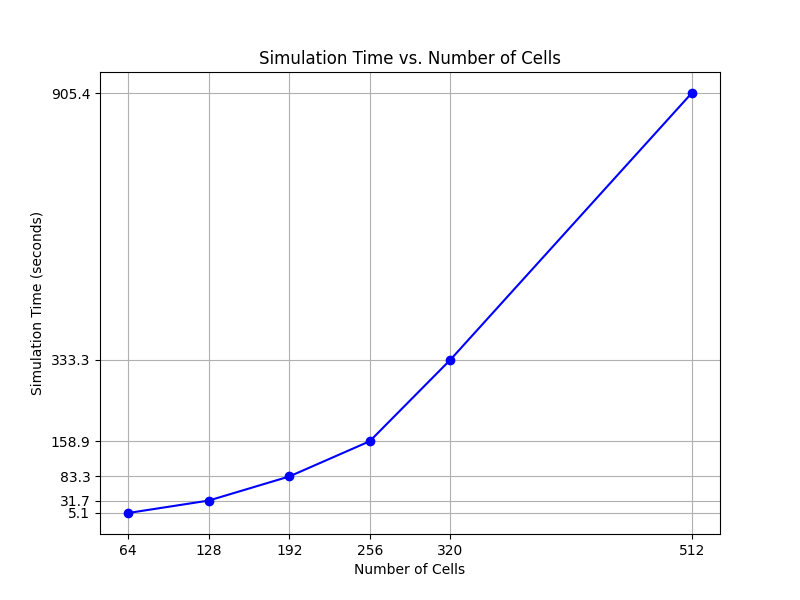
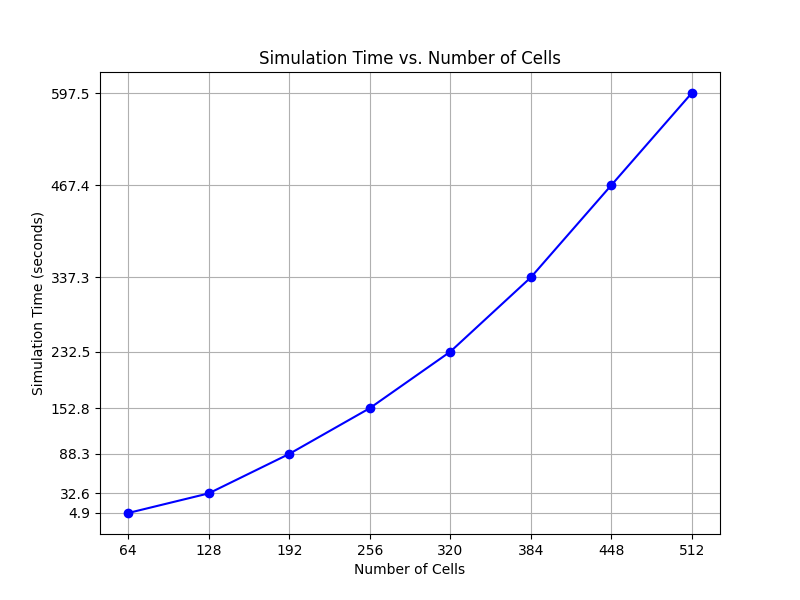
Added timing graph and script to generate

diff --git a/data_processing/test_timing.py b/data_processing/test_timing.py
@@ -2,7 +2,9 @@ import subprocess
 import matplotlib.pyplot as plt
 
 # List of cell sizes to test
-cells_array = [64, 128, 192, 256, 320, 512]
+# cells_array = [64, 128, 192, 256, 320, 384, 448, 512]
+
+cells_array = [x for x in range(64, 576, 64)]
 
 # Lists to store simulation data
 cells = []
